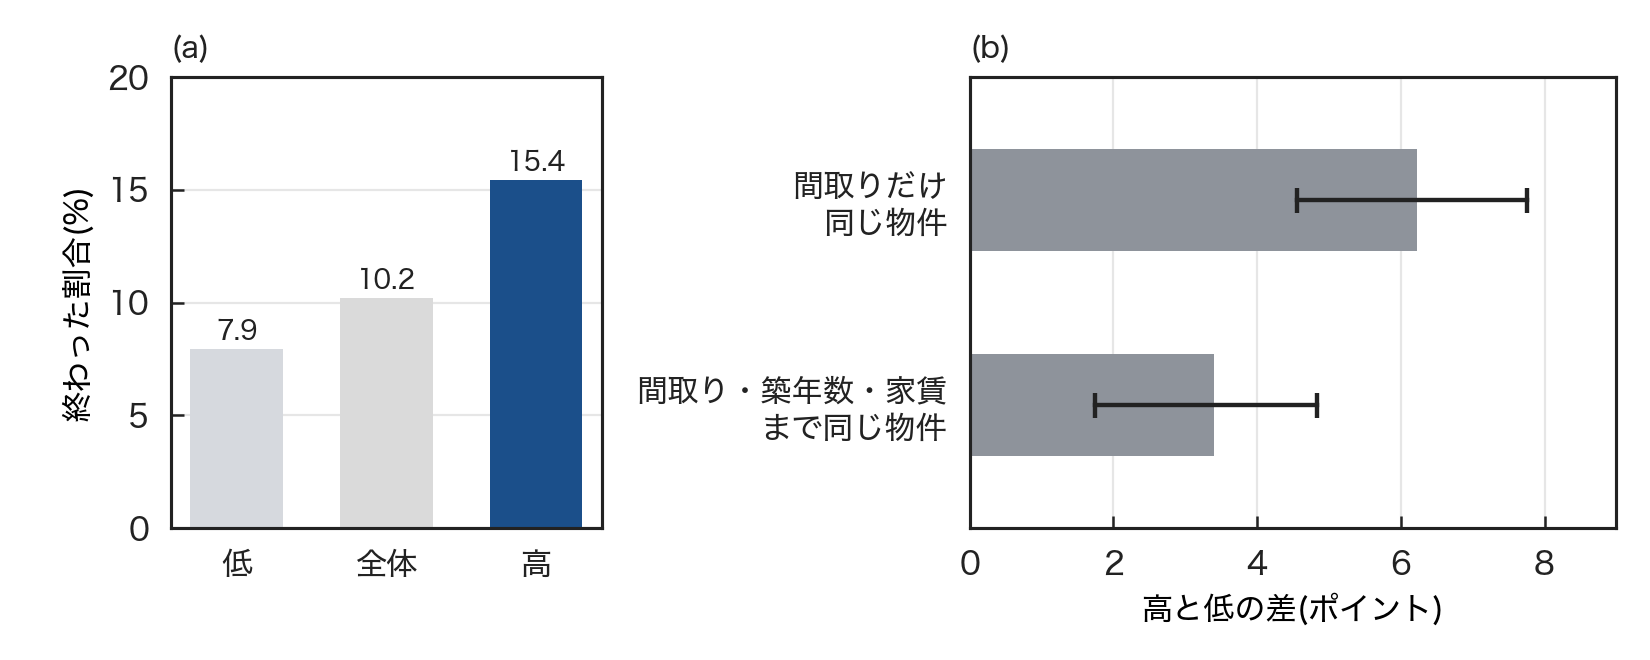
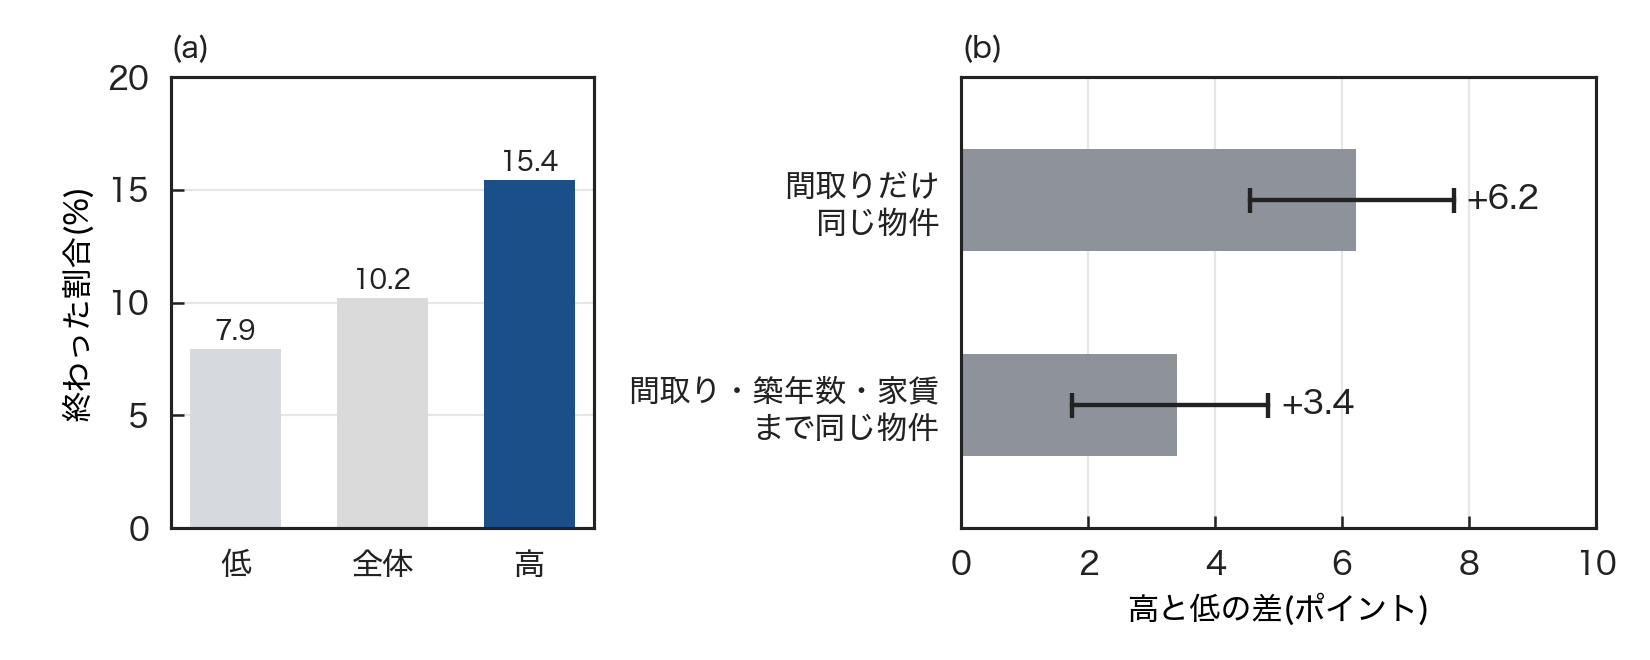
Talk figures: show bar values in 31d(b), label threshold figure axis in 31g
31d: add +6.2 / +3.4 value labels next to the within-set difference bars.
31g: rename the y axis to the difference per 100 pairs and the x axis to
the threshold, matching the slide wording.

diff --git a/Yamamoto/room_level/analysis/31_slide_figures.py b/Yamamoto/room_level/analysis/31_slide_figures.py
@@ -417,8 +417,8 @@ def fig_boundary(c22: pd.DataFrame, c23: pd.DataFrame) -> None:
     a.set_xlim(5, 30)
     a.set_ylim(0, 3.2)
     a.set_xticks([5, 10, 15, 20, 25, 30])
-    a.set_xlabel("線(7日以内の確率が何%以上を上のグループにするか)" if not TALK else "線: 7日以内の確率が何%以上を「上」にするか", fontsize=12 * FS if not TALK else 12.5 * FS)
-    a.set_ylabel("効き目(100組あたり)" if not TALK else "効き目")
+    a.set_xlabel("線(7日以内の確率が何%以上を上のグループにするか)" if not TALK else "閾値: 7日以内の確率が何%以上を「高」にするか", fontsize=12 * FS if not TALK else 12.5 * FS)
+    a.set_ylabel("効き目(100組あたり)" if not TALK else "上と下の差\n(100組あたり)")
     a.legend(loc="upper right")
     fig.tight_layout()
     save(fig, "31g_boundary.png")
@@ -475,9 +475,11 @@ def fig_result2023(c23: pd.DataFrame) -> None:
     for i, (n, (e, l_, h_)) in enumerate(ws.items()):
         b.barh(i, e, 0.5, color=BASE if TALK else MIDC)
         dot_ci(b, i, e, l_, h_, marker="none", color="#222222", vertical=False)
+        if TALK:
+            b.text(h_ + 0.2, i, f"{e:+.1f}", va="center", fontsize=13 * FS, color="#222222")
     b.set_yticks(range(2))
     b.set_yticklabels(list(ws))
-    b.set_xlim(0, 9)
+    b.set_xlim(0, 10 if TALK else 9)
     if TALK:
         b.grid(axis="x", visible=True)
         b.grid(axis="y", visible=False)
